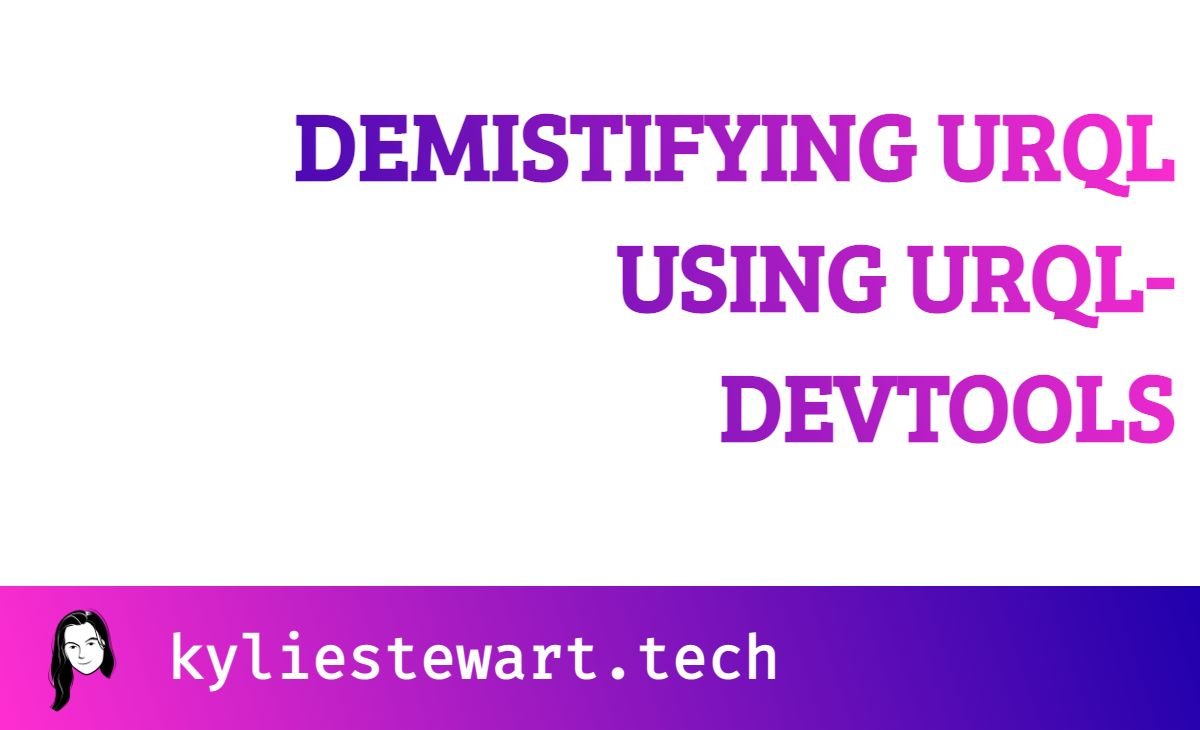
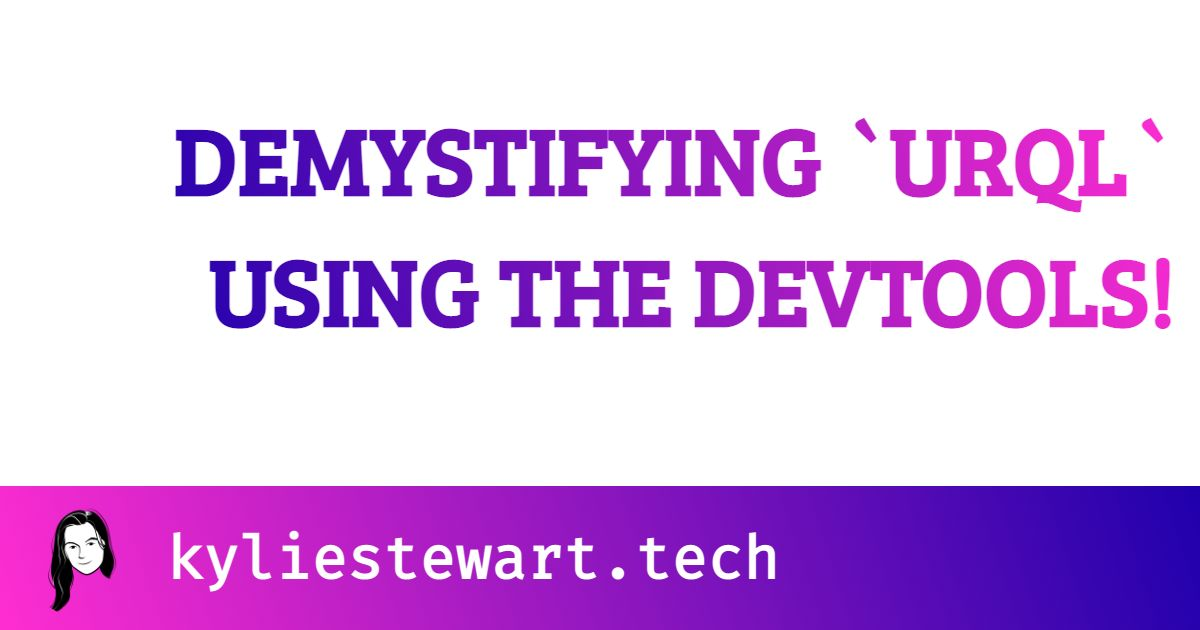
Grab titles from Readme metadata

Changed region(s): [[0.1233, 0.1508, 0.9867, 0.6333], [0.0, 0.754, 1.0, 0.9952]]

diff --git a/utils/data/talks.js b/utils/data/talks.js
@@ -1,3 +1,4 @@
+import matter from 'gray-matter'
 const TALK_PREFIX =
   'https://raw.githubusercontent.com/kale-stew/all-talks/main/content'
 export const ALL_TALK_DATA = `${TALK_PREFIX}/talks.json`
@@ -43,13 +44,14 @@ export async function getTalkData(id) {
   const fetchedReadme = await fetch(
     `${TALK_PREFIX}/${match.year}/${id}/README.md`
   )
-  const content = await fetchedReadme.text()
+  const text = await fetchedReadme.text()
+  const { data, content } = matter(text)
 
   return {
     id,
     category: 'talks',
     content,
-    title: match.title,
+    title: data.title,
     date: match.presentedAt[0].eventDate,
     description: match.description,
   }
